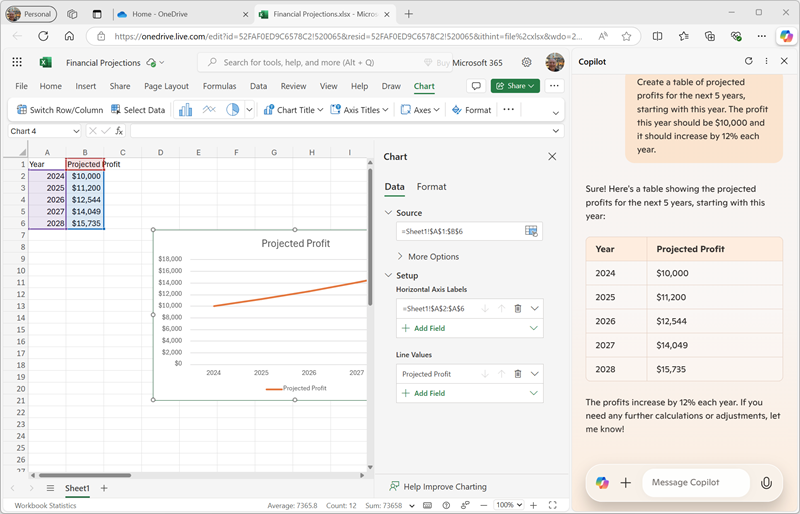
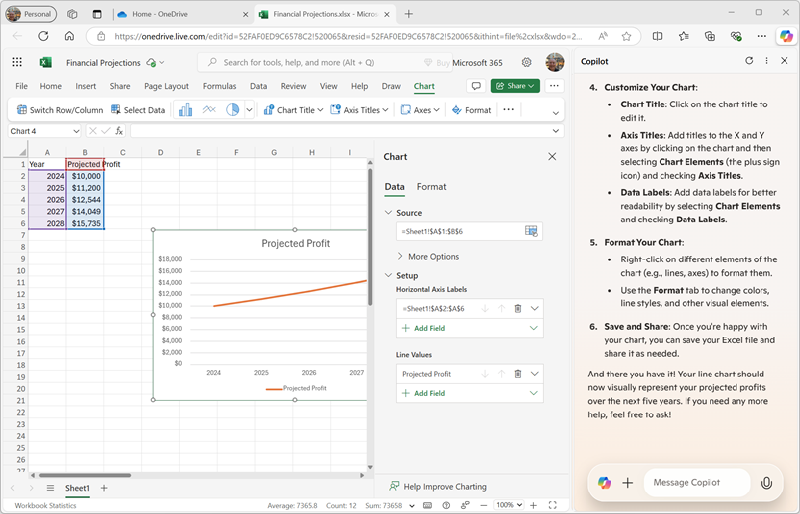
Expanded Excel task

diff --git a/Instructions/Labs/12-generative-ai.md b/Instructions/Labs/12-generative-ai.md
@@ -110,8 +110,21 @@ With Copilot's help, you've created a draft of a business plan for the cleaning 
 
     ![Screenshot of an Excel workbook with Copilot-generated data.](./media/generative-ai/generated-financials.png)
 
-1. Select the table of financial projections in Excel and on the **Insert** tab, select a **Line** chart.
-1. Select the chart in the spreadsheet, and on the **Chart** tab, select **Select Data**. Then in the **Chart** pane, on the **Data** tab, modify the setup so that the **year** field is the horizontal label and only the **Projected Profit** field is used as a line value:
+1. In the Copilot pane, enter the following prompt:
+
+    ```text
+    What's a good way to visualize these projections in a chart?
+    ```
+
+1. Review the response, which should recommend a few ways to visualize the projections data. Then enter the following prompt:
+
+    ```text
+    How do I create a line chart in Excel?
+    ```
+
+1. Follow the guidance provided by Copilot to create a line chart.
+
+    > **Tip**: You may need to adjust the default data axis selected by Excel. Select the chart in the spreadsheet, and on the **Chart** tab, select **Select Data**. Then in the **Chart** pane, on the **Data** tab, modify the setup so that the **Year** field is the horizontal label and only the **Projected Profit** field is used as a line value:
 
     ![Screenshot of an Excel workbook with a line chart.](./media/generative-ai/line-chart.png)
 
